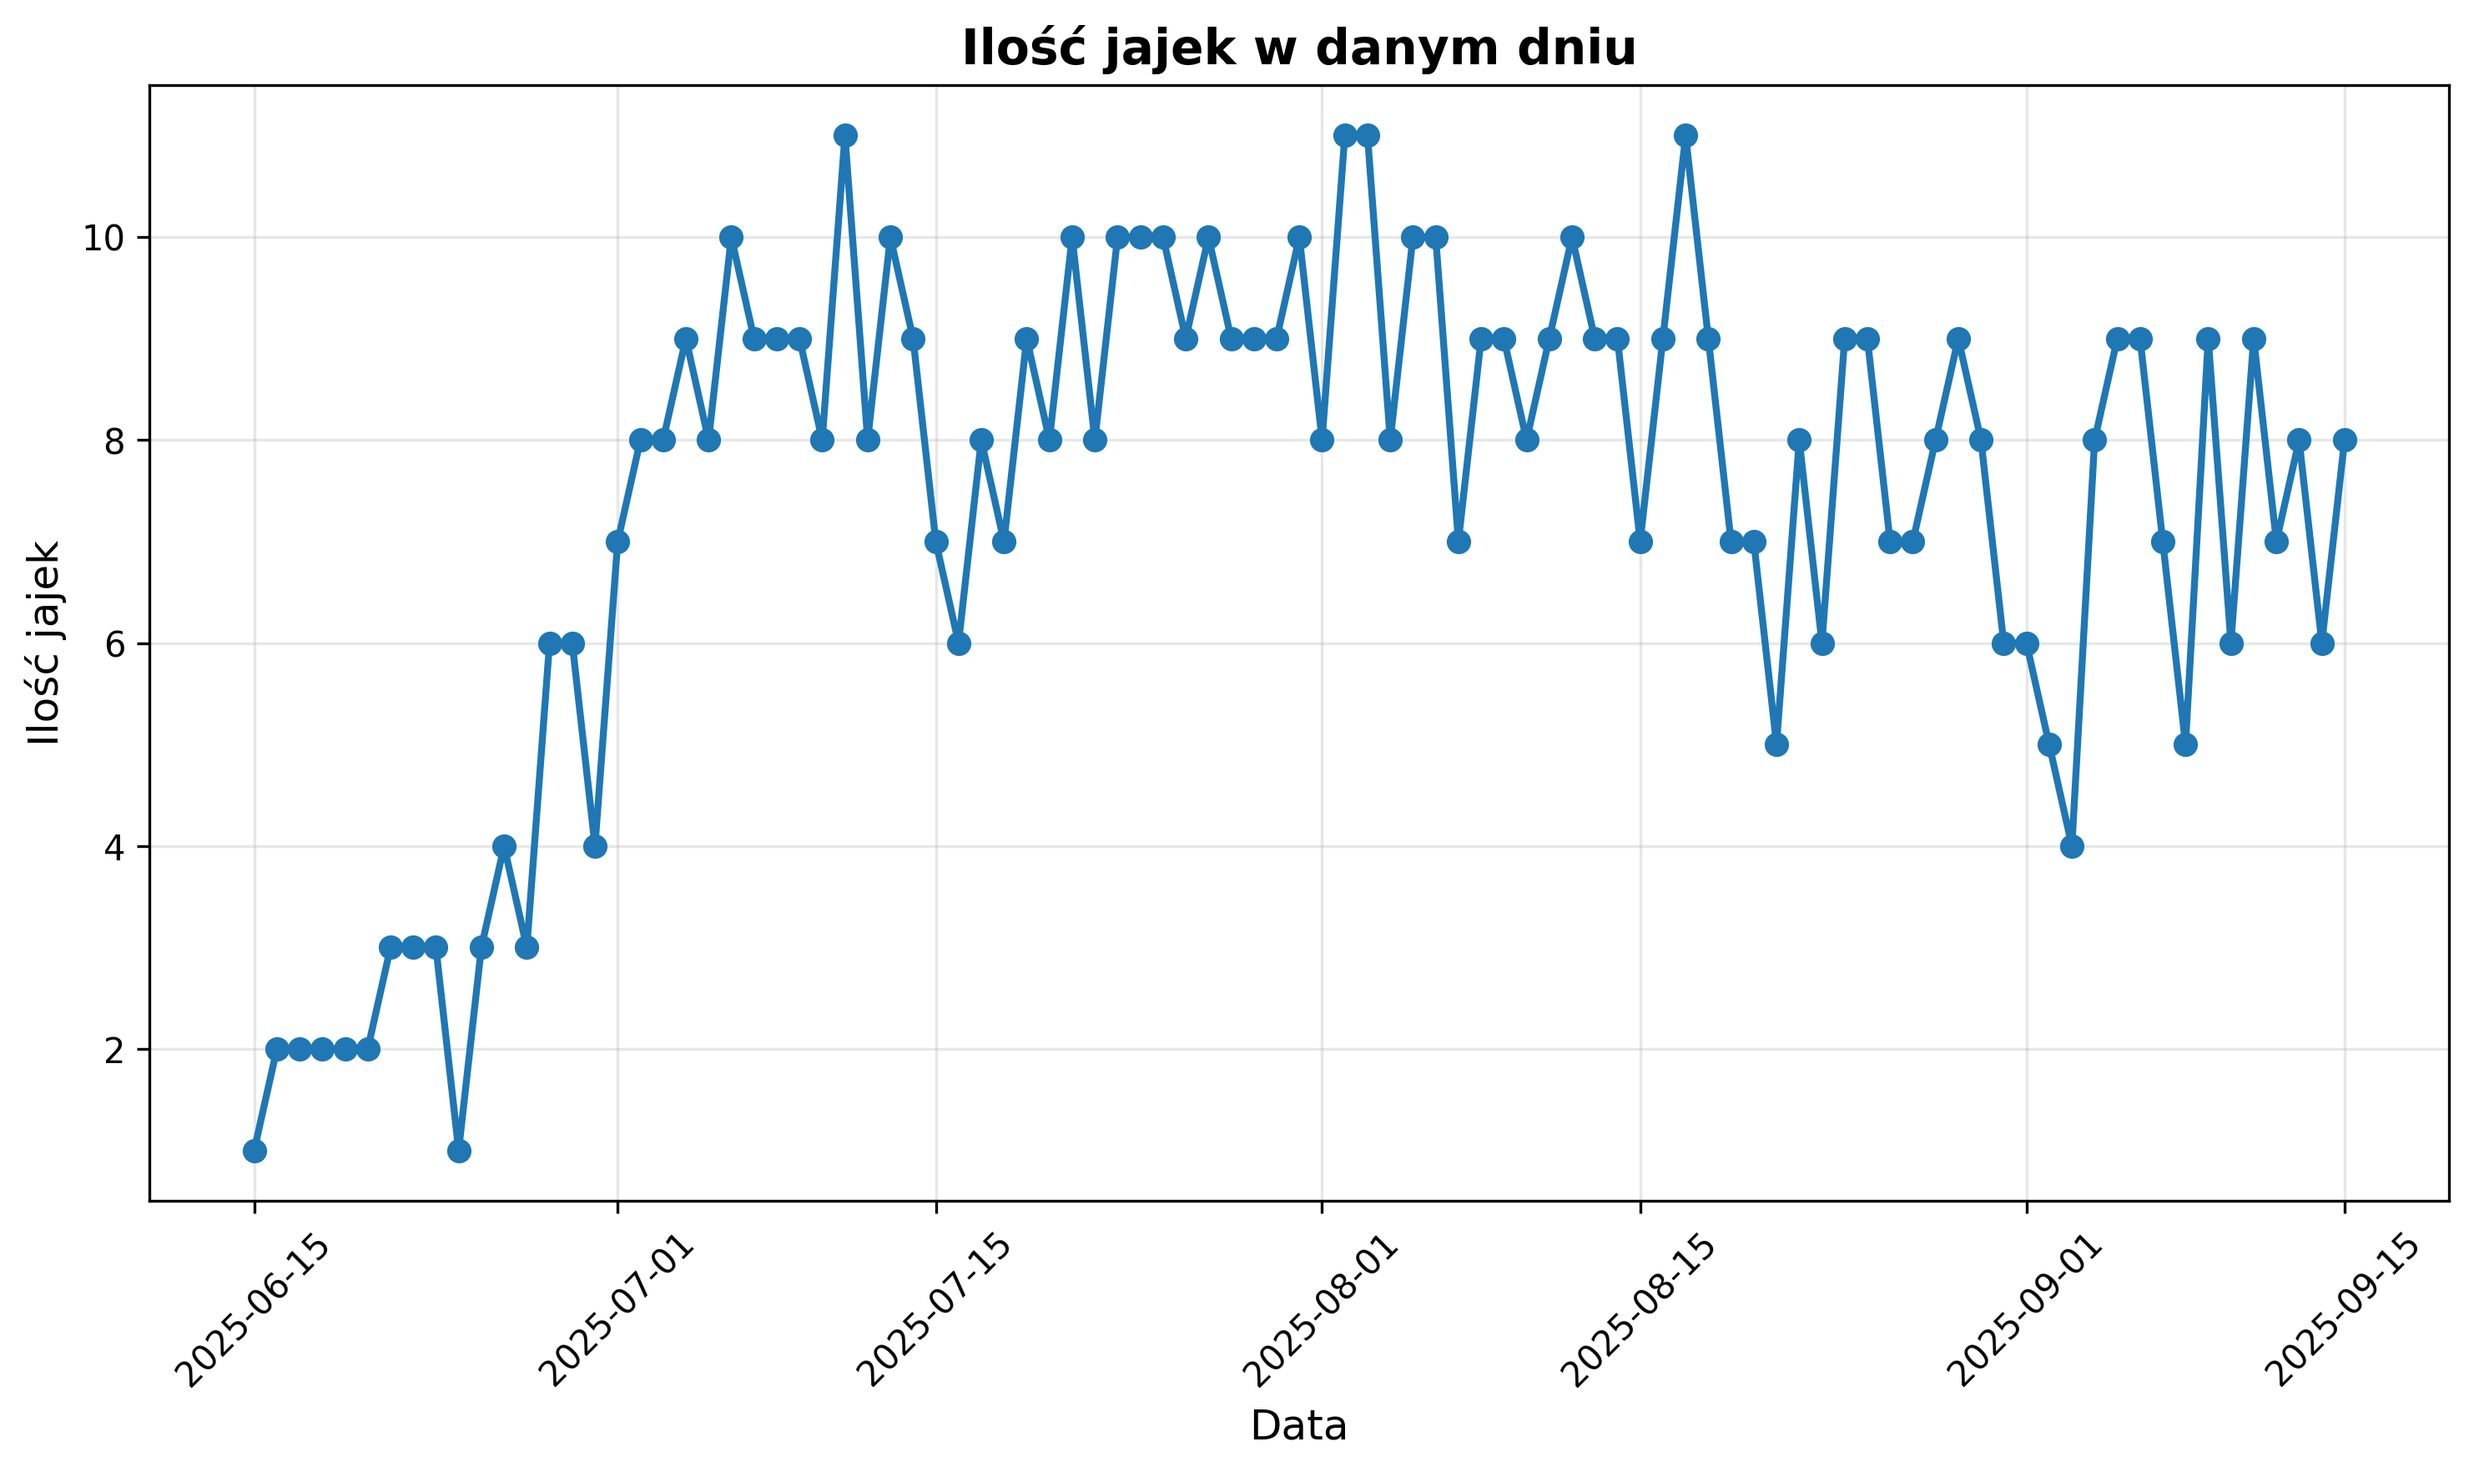
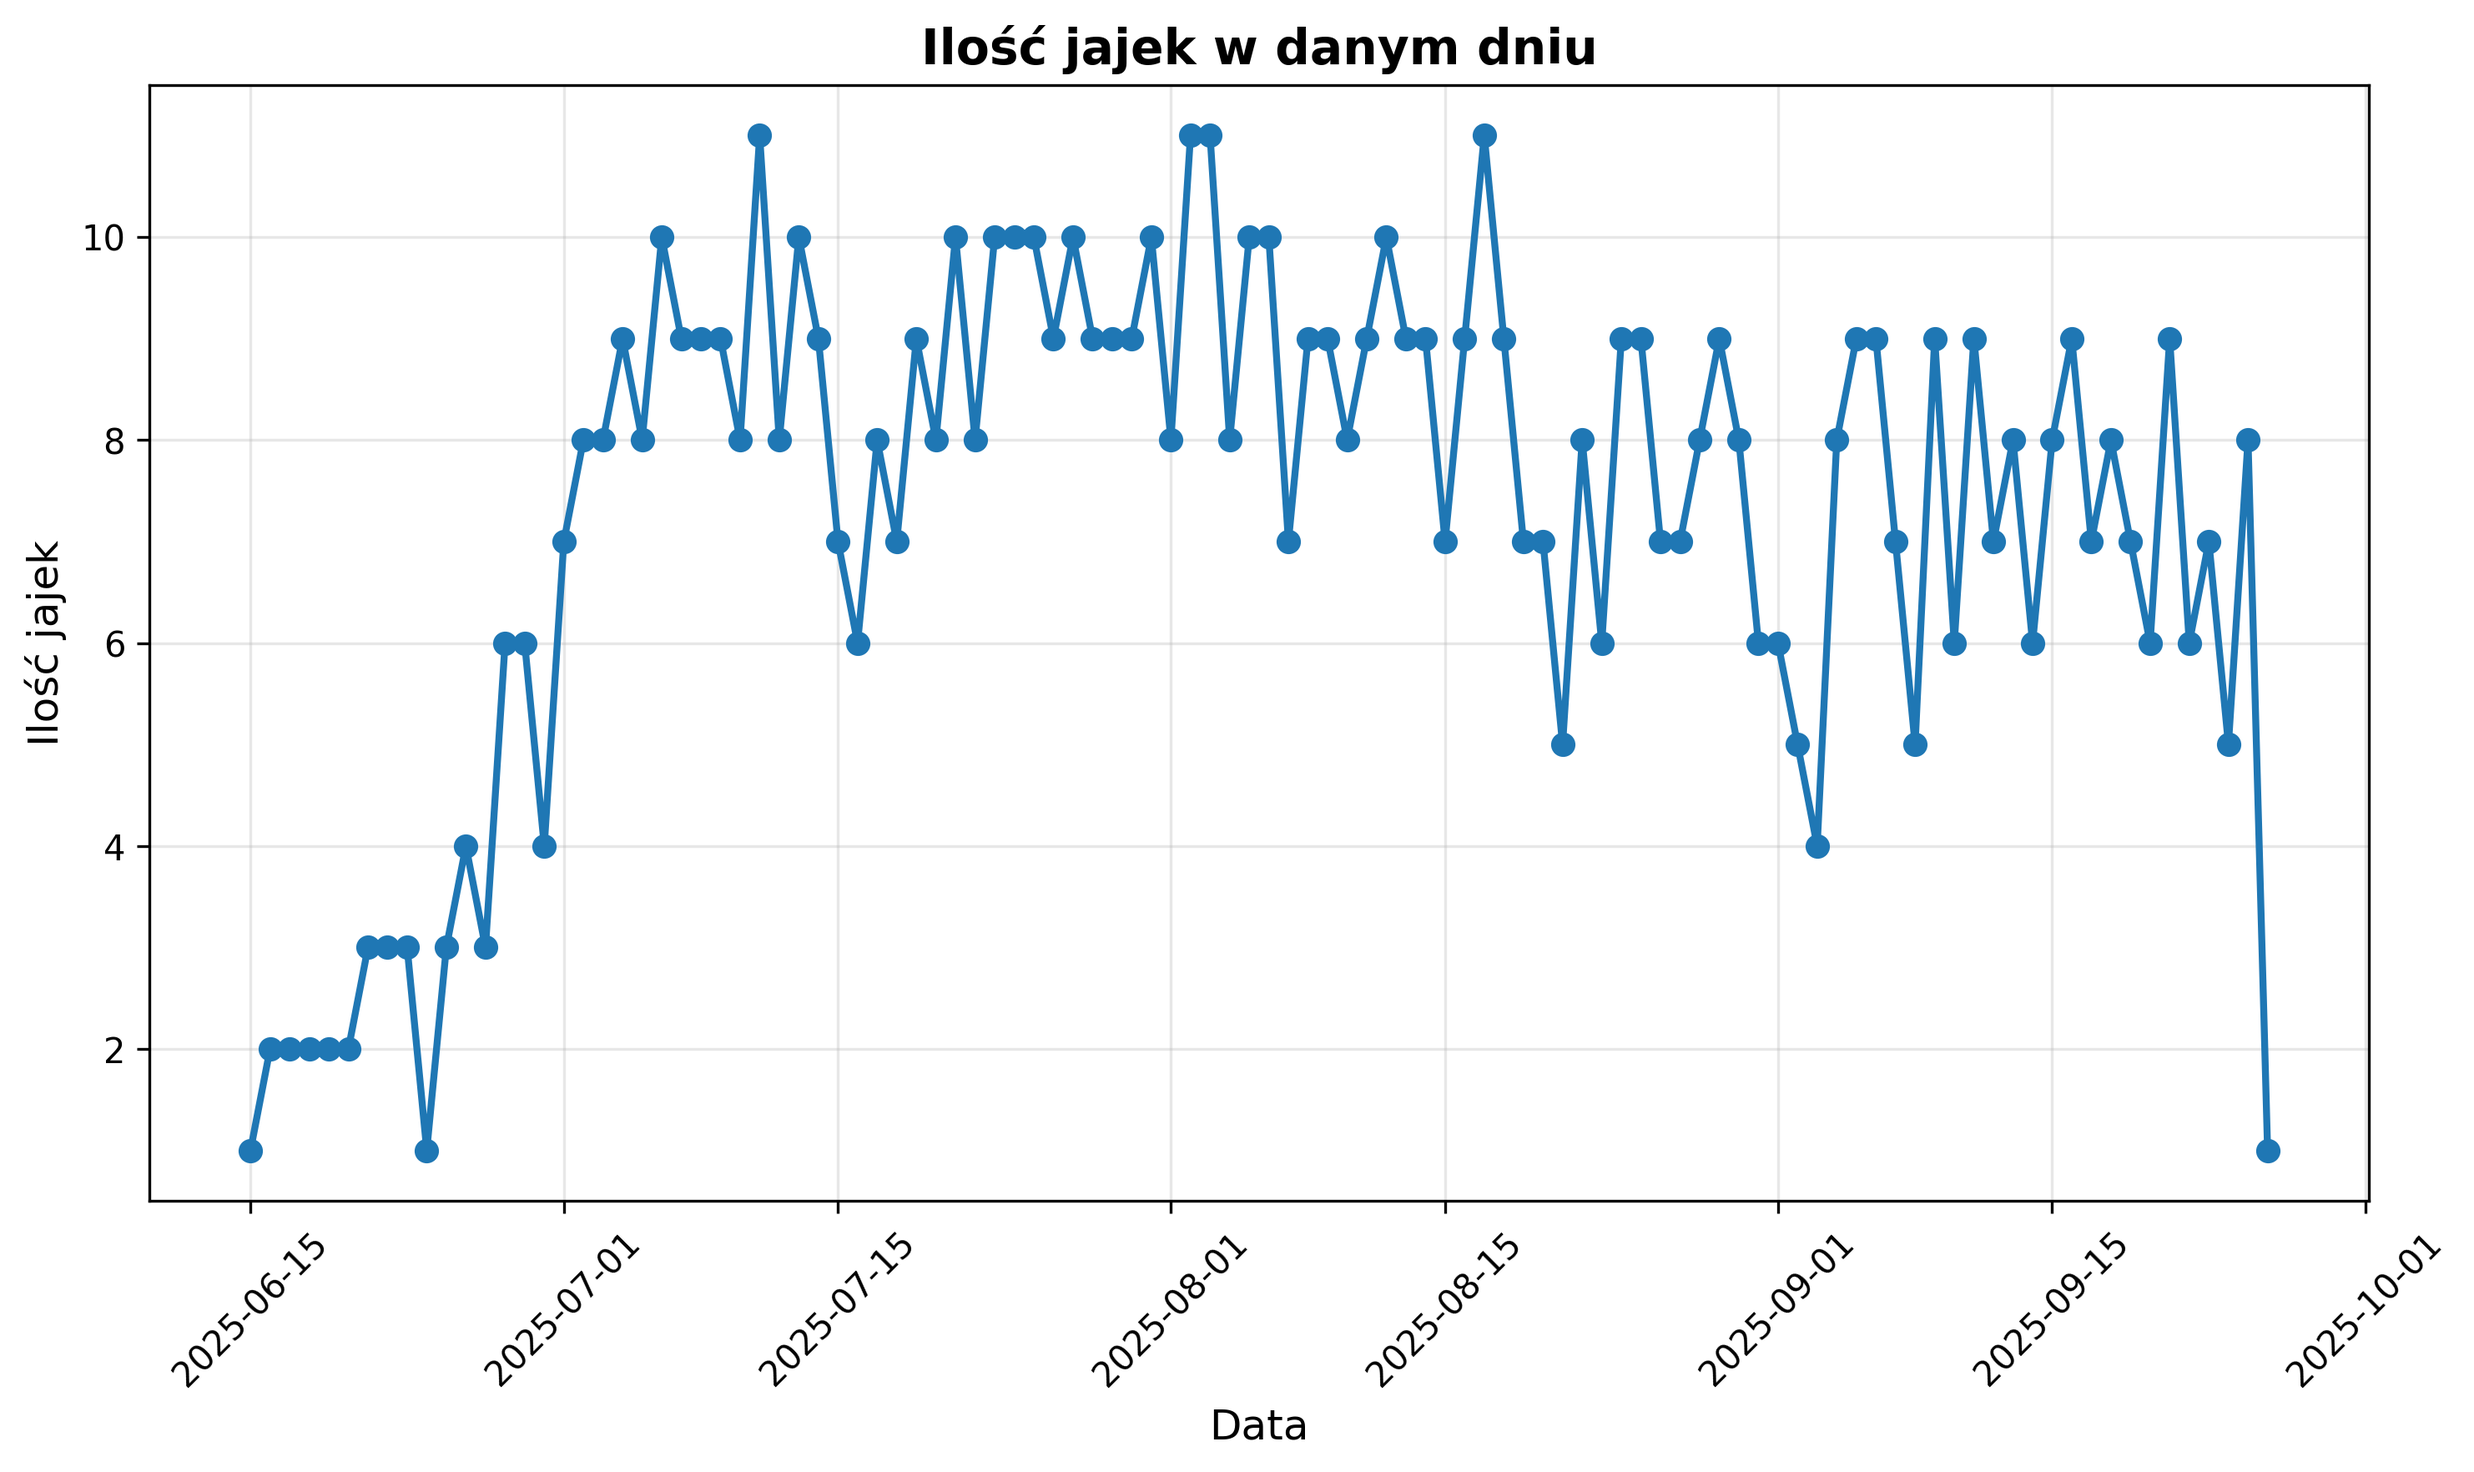
Chart update

diff --git a/jajka.html b/jajka.html
@@ -7,7 +7,7 @@
 </head>
 <body>
     <div style="font-size: 20px; font-style: italic;">Ostatnia aktualizacja:</div>
-    <div style="font-size: 18px; font-style: italic; color: red;">2025-09-25 17:23:15</div>
+    <div style="font-size: 18px; font-style: italic; color: red;">2025-09-26 07:34:40</div>
     <img src="img/chart.png" alt="" style="width: 100vw; height: 100vh; object-fit: contain; display: block; margin: 0 auto; position: absolute; top: 50%; left: 50%; transform: translate(-50%, -50%);">
 </body>
 </html>
